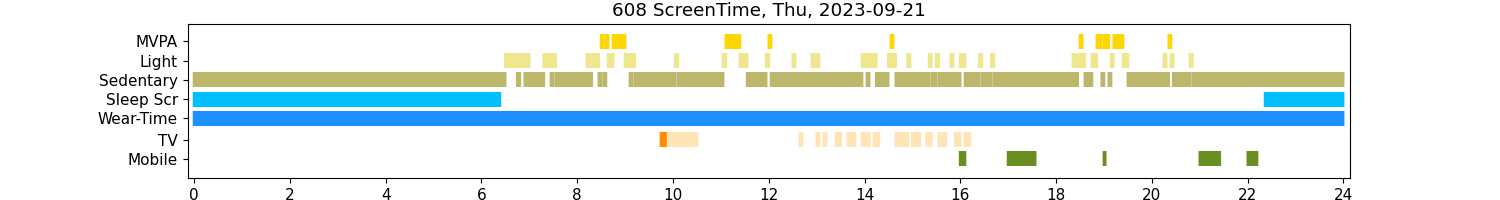
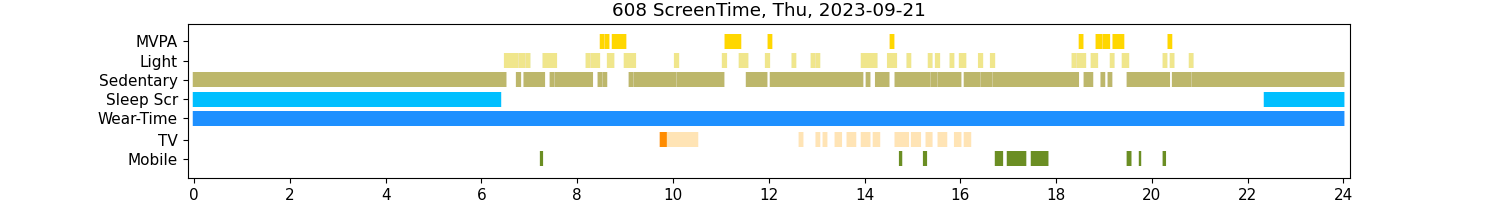
corrected ios to iphone

Changed region(s): [[0.6133, 0.75, 0.7053, 0.84], [0.7973, 0.75, 0.8587, 0.84], [0.736, 0.75, 0.7667, 0.84]]

diff --git a/plots/tmp.py b/plots/tmp.py
@@ -1,0 +1,23 @@
+import matplotlib
+import matplotlib.pyplot as plt
+import matplotlib.patches as mpatches
+
+tv_plot_colors = ['darkorange','moccasin','lightgray','darkgray','k']
+#tv_plot_colors = ['olivedrab','yellowgreen','k']
+#tv_plot_colors = ['dodgerblue','deepskyblue','darkkhaki','khaki','gold'] + ['lightgray','k']
+
+labels = ['TV-Gaze','TV-Exposure','Missing','Powered-off','No device'] 
+#labels = ['Mobile','Unknown','No device']
+#labels = ['Wear-time','Sleeping','Sedentary','Light', 'MVPA'] + ['Non-wear','No device']
+
+
+matplotlib.rcParams['font.size'] = 14.0
+fig, ax = plt.subplots()
+
+patches = []
+for i in range(len(tv_plot_colors)):
+    patches.append(mpatches.Patch(color=tv_plot_colors[i], label=labels[i]))
+
+ax.legend(handles=patches)
+plt.show()
+

diff --git a/plot_utils.py b/plot_utils.py
@@ -128,8 +128,7 @@ def get_mobile_data(path_mobile, num_days, ppt, ppt_mobile):
     m_df_5sec = pd.DataFrame(index=pd.date_range(start=start_dts, end=end_dts, freq='5S'))
     
     for dev in range(count):
-            
-        mpath = '%s/%s_%s_final.csv'%(path_mobile,ppt,type_[0].lower())
+        mpath = '%s/%s_%s_final.csv'%(path_mobile,ppt,type_[dev].lower())
         m_df = pd.read_csv(mpath, delimiter=',')
         m_df['event_timestamp'] = pd.to_datetime(m_df['event_timestamp']).dt.tz_localize(None)
         m_df.set_index('event_timestamp', inplace=True)

diff --git a/compute_mobile_stat.py b/compute_mobile_stat.py
@@ -33,7 +33,7 @@ for idx in df.index:
             csv_path = None
             if ppt == 591:
                 csv_path = None
-            save_path = '%s/%s_ios_final.csv'%(path_mobile,str(ppt))
+            save_path = '%s/%s_iphone_final.csv'%(path_mobile,str(ppt))
 
         if type_ == 'iPad':
             csv_path = '%s/%s_ipad_data.csv'%(path_mobile,str(ppt))

diff --git a/plot_tv_mobile_pa_v0_study4.py b/plot_tv_mobile_pa_v0_study4.py
@@ -46,7 +46,7 @@ ppts.sort()
 
 #ppts_int = [int(p) for p in ppts]
 #ppts[:1]
-for ppt in ['578']:
+for ppt in ['608']:
 
     ###### TV DATA    
     # read yaml
